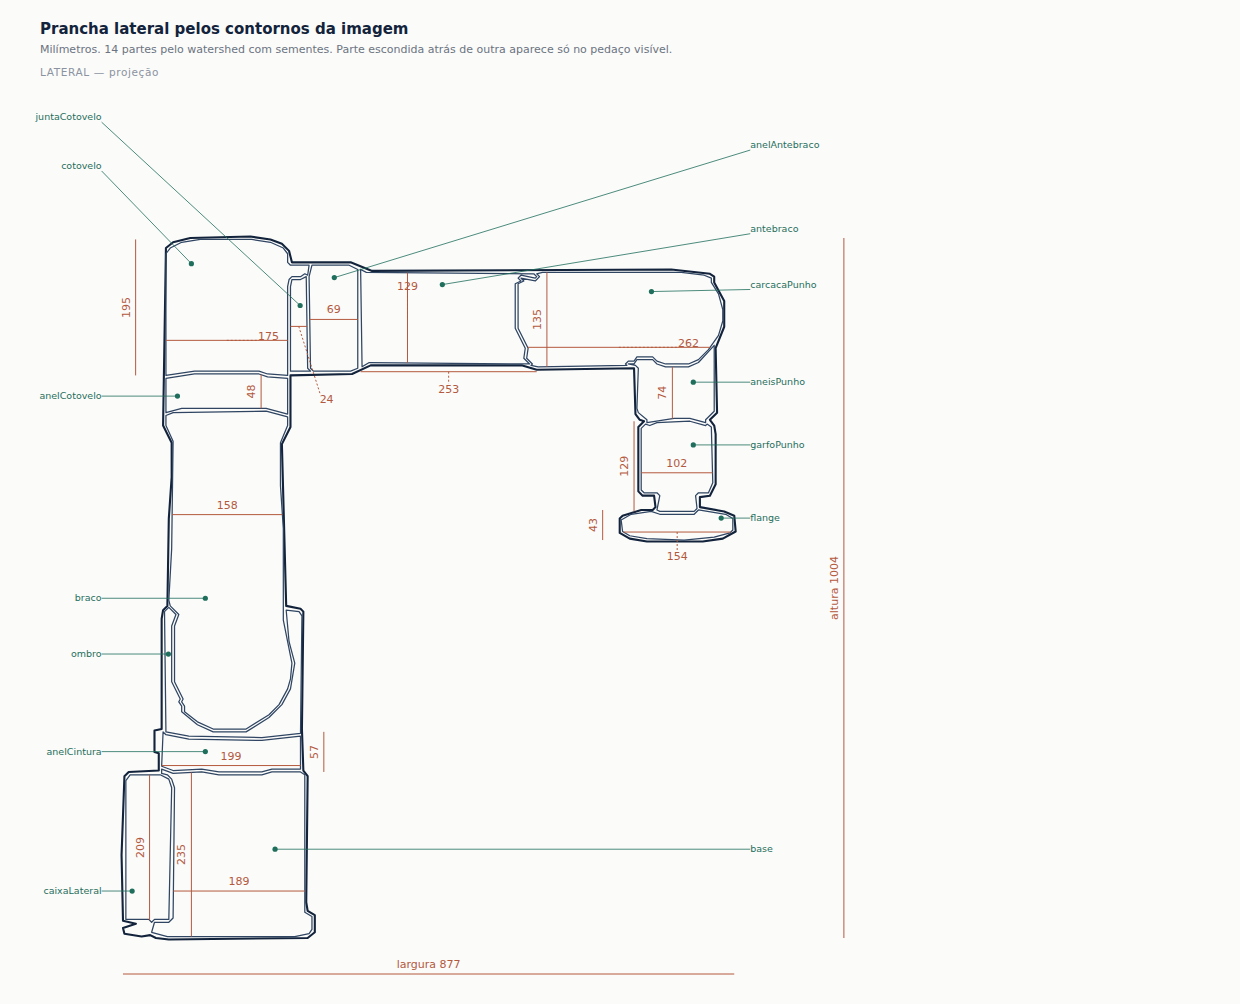
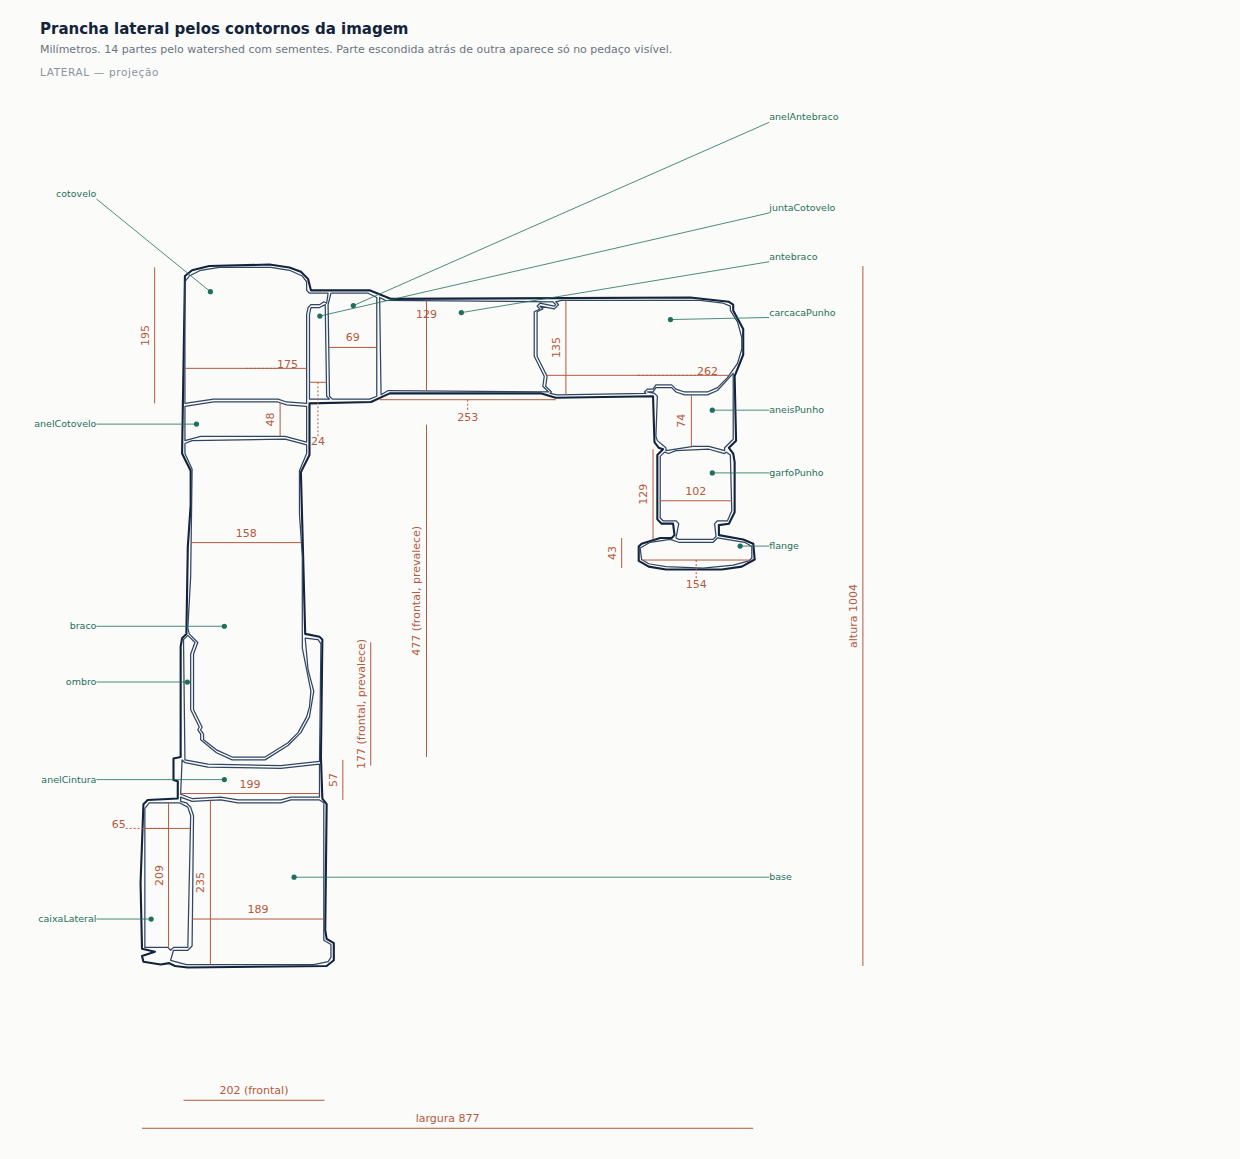
Braço: prancha da lateral sem cabo, série 2 rodada 2 (alturas do ombro e do braço pela frontal)
Claude-Session: https://claude.ai/code/session_015i1y8CrgTgEfwGG2HEX8g8

diff --git a/procedural/pecas/braco-robotico/referencias/lateral-sem-cabo.prancha.pacote/roteiro.md b/procedural/pecas/braco-robotico/referencias/lateral-sem-cabo.prancha.pacote/roteiro.md
@@ -6,61 +6,61 @@ Siga as etapas na ordem e não pule nenhuma. Abra o alvo e a prancha em cada eta
 
 Abra o alvo (/home/user/nos-mecanifica/procedural/pecas/braco-robotico/referencias/lateral-sem-cabo.png) e a prancha (/home/user/nos-mecanifica/procedural/pecas/braco-robotico/referencias/lateral-sem-cabo.prancha.png). Confira se a silhueta da prancha segue a do alvo e se as cotas gerais de largura e altura estão nas bordas do objeto.
 
-## Etapa 2 — juntaCotovelo
-
-- largura: cota 24. A linha atravessa a seção que o modelador precisa, dentro de juntaCotovelo?
-- altura: sem cota. A linha mede juntaCotovelo de ponta a ponta na vertical, sem pegar parte vizinha?
-- nome: "juntaCotovelo" fica na coluna da esquerda. A chamada termina dentro de juntaCotovelo, e não numa vizinha?
-- linhas livres: a chamada e as cotas de juntaCotovelo não cruzam outra linha nem passam sobre número ou nome?
-
-## Etapa 3 — cotovelo
+## Etapa 2 — cotovelo
 
 - largura: cota 175. A linha atravessa a seção que o modelador precisa, dentro de cotovelo?
 - altura: cota 195. A linha mede cotovelo de ponta a ponta na vertical, sem pegar parte vizinha?
 - nome: "cotovelo" fica na coluna da esquerda. A chamada termina dentro de cotovelo, e não numa vizinha?
 - linhas livres: a chamada e as cotas de cotovelo não cruzam outra linha nem passam sobre número ou nome?
 
-## Etapa 4 — anelCotovelo
+## Etapa 3 — anelCotovelo
 
 - largura: sem cota. A linha atravessa a seção que o modelador precisa, dentro de anelCotovelo?
 - altura: cota 48. A linha mede anelCotovelo de ponta a ponta na vertical, sem pegar parte vizinha?
 - nome: "anelCotovelo" fica na coluna da esquerda. A chamada termina dentro de anelCotovelo, e não numa vizinha?
 - linhas livres: a chamada e as cotas de anelCotovelo não cruzam outra linha nem passam sobre número ou nome?
 
-## Etapa 5 — braco
+## Etapa 4 — braco
 
 - largura: cota 158. A linha atravessa a seção que o modelador precisa, dentro de braco?
-- altura: EM FALTA: só há a nota "braço cobre o ombro e some sob o cotovelo; a frontal dá 477 mm contra 456 mm aqui", que não dá número. A linha mede braco de ponta a ponta na vertical, sem pegar parte vizinha?
+- altura: cota 477 (frontal, prevalece), tirada da vista frontal. A linha mede braco de ponta a ponta na vertical, sem pegar parte vizinha?
 - nome: "braco" fica na coluna da esquerda. A chamada termina dentro de braco, e não numa vizinha?
 - linhas livres: a chamada e as cotas de braco não cruzam outra linha nem passam sobre número ou nome?
 
-## Etapa 6 — ombro
+## Etapa 5 — ombro
 
-- largura: EM FALTA: só há a nota "ombro só aparece em duas frestas dos lados do braço; a linha de largura cruzaria o braço", que não dá número. A linha atravessa a seção que o modelador precisa, dentro de ombro?
-- altura: EM FALTA: só há a nota "ombro fica atrás do braço nesta vista; a frontal dá 177 mm contra 187 mm aqui", que não dá número. A linha mede ombro de ponta a ponta na vertical, sem pegar parte vizinha?
+- largura: cota 202 (frontal), tirada da vista frontal. A linha atravessa a seção que o modelador precisa, dentro de ombro?
+- altura: cota 177 (frontal, prevalece), tirada da vista frontal. A linha mede ombro de ponta a ponta na vertical, sem pegar parte vizinha?
 - nome: "ombro" fica na coluna da esquerda. A chamada termina dentro de ombro, e não numa vizinha?
 - linhas livres: a chamada e as cotas de ombro não cruzam outra linha nem passam sobre número ou nome?
 
-## Etapa 7 — anelCintura
+## Etapa 6 — anelCintura
 
 - largura: cota 199. A linha atravessa a seção que o modelador precisa, dentro de anelCintura?
 - altura: cota 57. A linha mede anelCintura de ponta a ponta na vertical, sem pegar parte vizinha?
 - nome: "anelCintura" fica na coluna da esquerda. A chamada termina dentro de anelCintura, e não numa vizinha?
 - linhas livres: a chamada e as cotas de anelCintura não cruzam outra linha nem passam sobre número ou nome?
 
-## Etapa 8 — caixaLateral
+## Etapa 7 — caixaLateral
 
-- largura: sem cota. A linha atravessa a seção que o modelador precisa, dentro de caixaLateral?
+- largura: cota 65. A linha atravessa a seção que o modelador precisa, dentro de caixaLateral?
 - altura: cota 209. A linha mede caixaLateral de ponta a ponta na vertical, sem pegar parte vizinha?
 - nome: "caixaLateral" fica na coluna da esquerda. A chamada termina dentro de caixaLateral, e não numa vizinha?
 - linhas livres: a chamada e as cotas de caixaLateral não cruzam outra linha nem passam sobre número ou nome?
 
-## Etapa 9 — anelAntebraco
+## Etapa 8 — anelAntebraco
 
 - largura: cota 69. A linha atravessa a seção que o modelador precisa, dentro de anelAntebraco?
 - altura: sem cota. A linha mede anelAntebraco de ponta a ponta na vertical, sem pegar parte vizinha?
 - nome: "anelAntebraco" fica na coluna da direita. A chamada termina dentro de anelAntebraco, e não numa vizinha?
 - linhas livres: a chamada e as cotas de anelAntebraco não cruzam outra linha nem passam sobre número ou nome?
+
+## Etapa 9 — juntaCotovelo
+
+- largura: cota 24. A linha atravessa a seção que o modelador precisa, dentro de juntaCotovelo?
+- altura: sem cota. A linha mede juntaCotovelo de ponta a ponta na vertical, sem pegar parte vizinha?
+- nome: "juntaCotovelo" fica na coluna da direita. A chamada termina dentro de juntaCotovelo, e não numa vizinha?
+- linhas livres: a chamada e as cotas de juntaCotovelo não cruzam outra linha nem passam sobre número ou nome?
 
 ## Etapa 10 — antebraco
 
